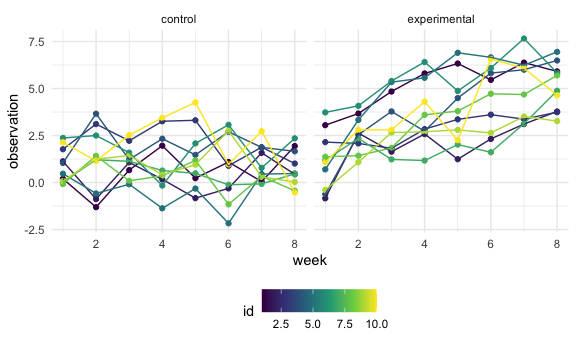
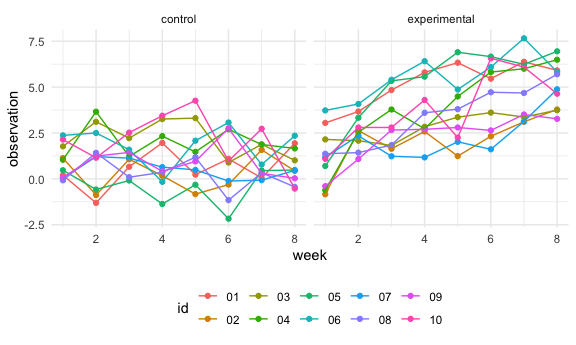
Refine problem 2

diff --git a/p8105_hw5_ym2813.md b/p8105_hw5_ym2813.md
@@ -12,12 +12,6 @@ knitr::opts_chunk$set(
   out.width = "90%"
 )
 theme_set(theme_minimal() + theme(legend.position = "bottom"))
-options(
-  ggplot2.continuous.colour = "viridis",
-  ggplot2.continuous.fill = "viridis"
-)
-scale_colour_discrete = scale_colour_viridis_d
-scale_fill_discrete = scale_fill_viridis_d
 ```
 
 ## Problem 1
@@ -194,7 +188,7 @@ subject_df =
   mutate(
     arm = recode(arm, con = "control", exp = "experimental"),
     arm = factor(arm),
-    id = as.integer(id),
+    id = factor(id),
     week = as.integer(week)
   )
 
@@ -202,18 +196,18 @@ subject_df
 ```
 
     ## # A tibble: 160 × 4
-    ##    arm        id  week observation
-    ##    <fct>   <int> <int>       <dbl>
-    ##  1 control     1     1        0.2 
-    ##  2 control     1     2       -1.31
-    ##  3 control     1     3        0.66
-    ##  4 control     1     4        1.96
-    ##  5 control     1     5        0.23
-    ##  6 control     1     6        1.09
-    ##  7 control     1     7        0.05
-    ##  8 control     1     8        1.94
-    ##  9 control     2     1        1.13
-    ## 10 control     2     2       -0.88
+    ##    arm     id     week observation
+    ##    <fct>   <fct> <int>       <dbl>
+    ##  1 control 01        1        0.2 
+    ##  2 control 01        2       -1.31
+    ##  3 control 01        3        0.66
+    ##  4 control 01        4        1.96
+    ##  5 control 01        5        0.23
+    ##  6 control 01        6        1.09
+    ##  7 control 01        7        0.05
+    ##  8 control 01        8        1.94
+    ##  9 control 02        1        1.13
+    ## 10 control 02        2       -0.88
     ## # … with 150 more rows
 
 **Spaghetti plot**
